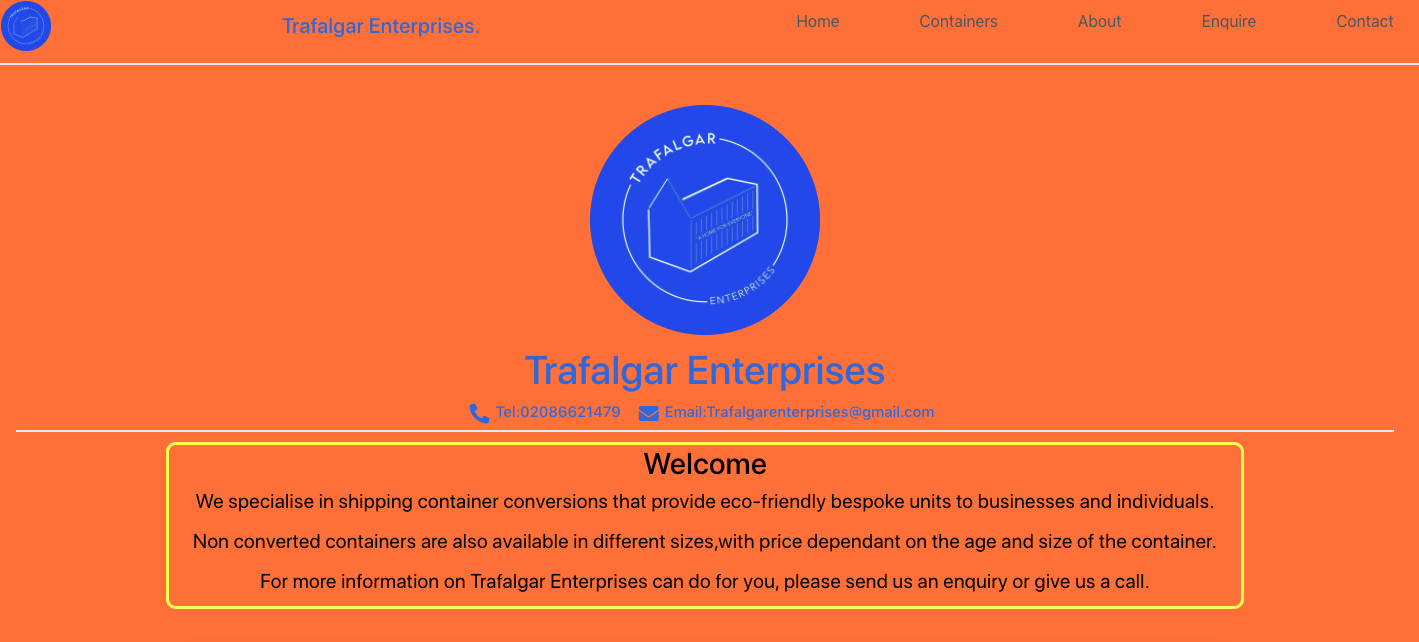
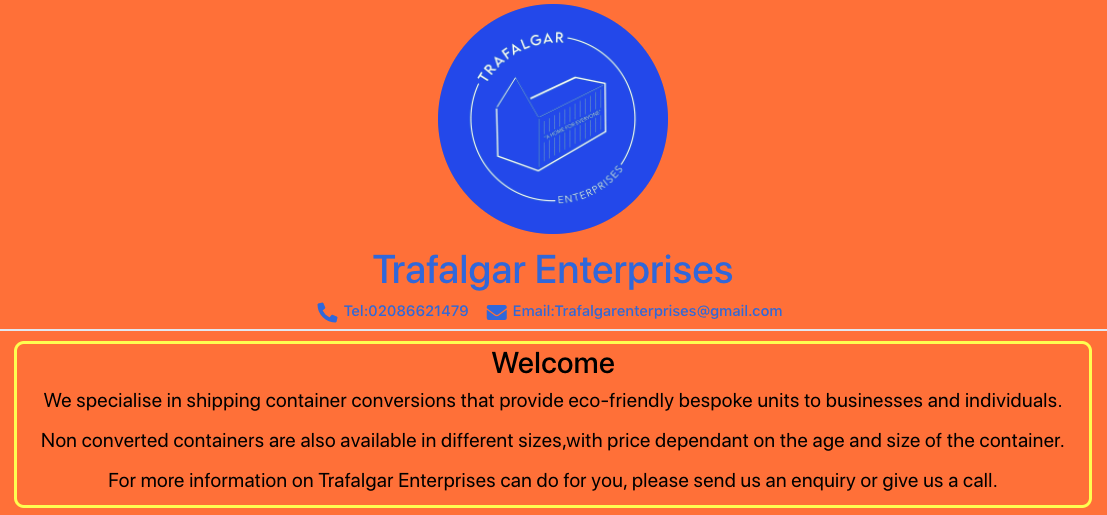
added trafalgar to top of projects and added new picture

diff --git a/src/Components/Projects.js b/src/Components/Projects.js
@@ -3,7 +3,7 @@ import React from 'react';
 import { SiGithub } from 'react-icons/si';
 import { FaRocket } from 'react-icons/fa';
 import Tricknastics from '../Images/TnAcademy_Landingpage_Screenshot.png';
-import Trafalgar from "../Images/Trafalgar_enterprise_screenshot.png";
+import Trafalgar from "../Images/Trafalgar_enterprise_small_screenshot.png";
 import codingBloggerImage from '../Images/CodingBlogger_img.png';
 import toDoListImage from '../Images/toDoListImage.png';
 import pyGen from '../Images/PyGen_logo_img.png';

diff --git a/src/css/Projects.css b/src/css/Projects.css
@@ -20,8 +20,8 @@
 }
 
 .trafalgar_img{
-  height: 250px;
-  width: auto;
+  height: 400px;
+  width: 400px;
 }
 
 #tricknastics, #codingBlogger, #toDoList, #password_generator, #trafalgar_enterprises{
